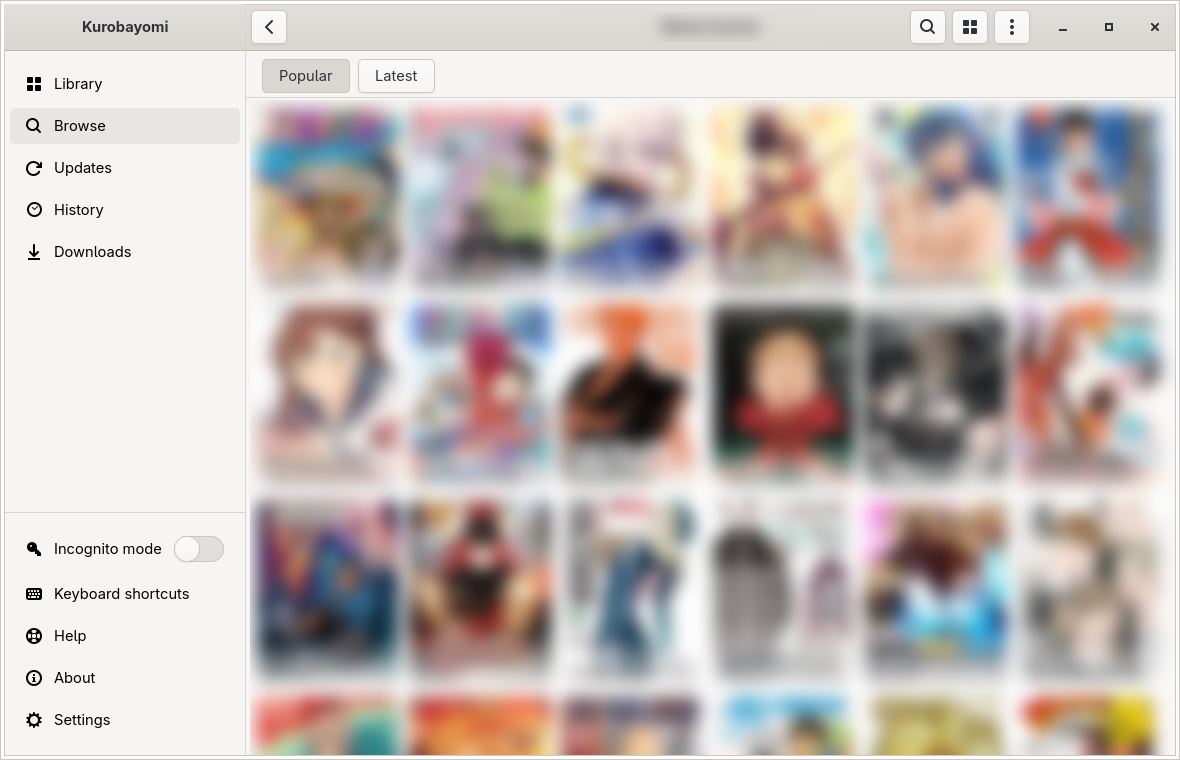
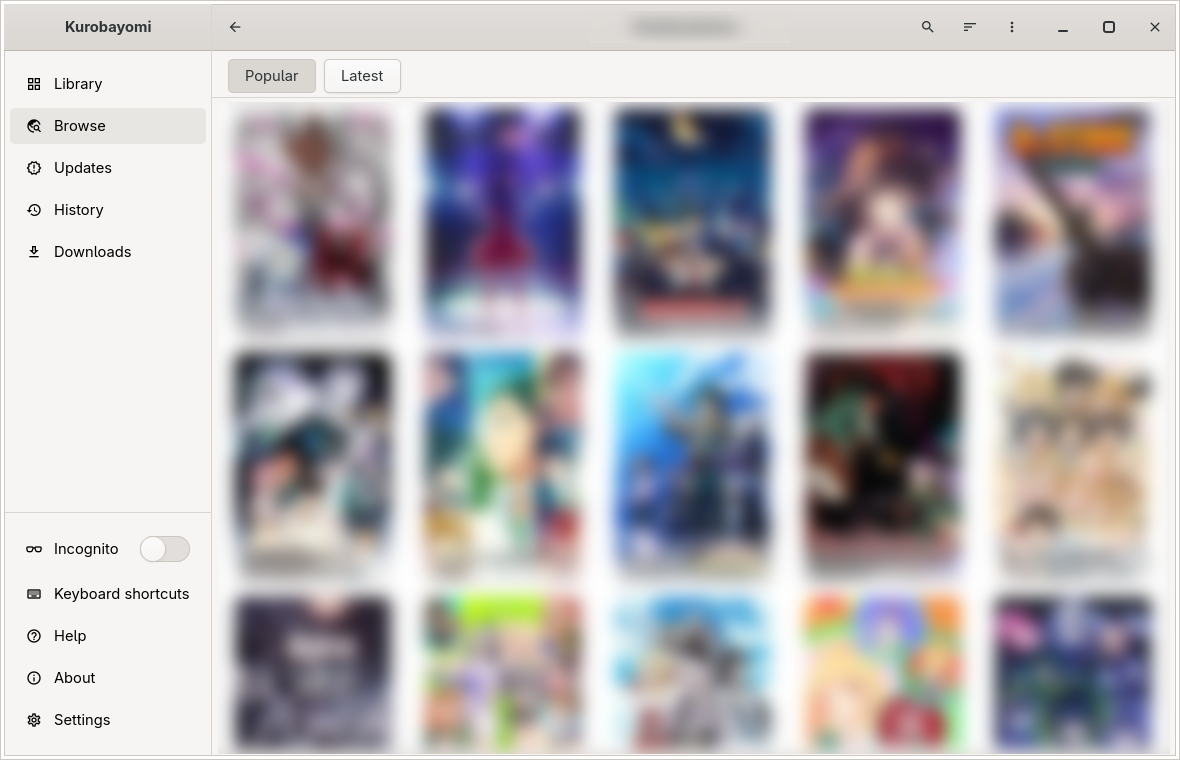
README and getting-started guide: the AppImage install (nightly link, the stable link once released) and its self-update, search from the button beside the app name, the sidebar's bottom rows and the ⋮ page menu, the ☰ menu of a small window, Incognito described exactly; every guide screenshot retak

diff --git a/README.md b/README.md
@@ -8,14 +8,15 @@
 
 Kurobayomi is a native desktop app, written in Rust with GTK4, that follows the model of
 [Aniyomi](https://github.com/aniyomiorg/aniyomi): a library, a reader, a video player, sources you add yourself, and
-progress tracking. It uses your GTK theme.
+progress tracking. It follows your GTK theme and draws its own icons, so it looks right on any desktop.
 
 The name is *kurobako* (黒箱, "black box") plus *-yomi* ("reading").
 
 ![The welcome screen](docs/images/getting-started/01-welcome.png)
 
 > **Status: early test version.** It runs, and the whole flow from adding a repository to watching or reading works, but
-> expect rough edges. There is no packaged release yet; see [Install](#install).
+> expect rough edges. A nightly AppImage is built from every change and updates itself; the first stable release is
+> coming. See [Install](#install).
 
 ## What it does
 
@@ -30,6 +31,9 @@ The name is *kurobako* (黒箱, "black box") plus *-yomi* ("reading").
 - **Library, Updates and History**, downloads for offline use, and AniList tracking (optional).
 - **Aniyomi and Tachiyomi backups** (`.tachibk`) restore into Kurobayomi, and `aniyomi://` / `tachiyomi://` repository
   links open it.
+- **Keeps itself up to date.** The AppImage downloads a newer version in the background and runs it after a restart;
+  About shows the progress.
+- **Fits any window size**, from a full screen down to a phone-sized 360 px: the sidebar turns into a bar at the bottom.
 
 <table>
   <tr>
@@ -42,7 +46,7 @@ The name is *kurobako* (黒箱, "black box") plus *-yomi* ("reading").
   </tr>
 </table>
 
-<sub>Cover art and site names are blurred in these screenshots.</sub>
+<sub>Site names, the repository link and the covers in lists are blurred in these screenshots.</sub>
 
 ## Getting started
 
@@ -50,7 +54,7 @@ The step-by-step guide, with screenshots, is in **[docs/GETTING-STARTED.md](docs
 
 1. Open the app and click **Add a source repository**.
 2. Paste the repository link.
-3. Search in **Browse**, open a title, click **Start**.
+3. Click the search button 🔍 next to **Kurobayomi**, type a title and press **Enter**, open a title, click **Start**.
 
 Downloads and backups go to `~/Kurobayomi` unless you pick another folder in Settings.
 
@@ -62,7 +66,28 @@ that lists sources; anyone can publish one. The format, the plug-in interface an
 
 ## Install
 
-A Flatpak is planned and comes first; an AppImage built by CI will follow. Until then, build it from source.
+### AppImage
+
+Download the AppImage, make it executable and run it. It carries its own libraries and needs glibc 2.39 or newer
+(Ubuntu 24.04, Fedora 40, Debian 13, Arch and newer).
+
+- **Nightly** (built from every change, may be unstable, keeps its data apart from the stable app):
+  [Kurobayomi-nightly-x86_64.AppImage](https://github.com/anas1412/kurobayomi/releases/download/nightly/Kurobayomi-nightly-x86_64.AppImage)
+- **Stable**: [Kurobayomi-x86_64.AppImage](https://github.com/anas1412/kurobayomi/releases/latest/download/Kurobayomi-x86_64.AppImage)
+  once the first release is out.
+
+```bash
+chmod +x Kurobayomi-nightly-x86_64.AppImage
+./Kurobayomi-nightly-x86_64.AppImage
+```
+
+The AppImage updates itself: at start it looks for a newer version, downloads it in the background and runs it after a
+restart. **About** shows the progress, and **Check for updates at startup** there turns it off. AppImage managers
+(Gear Lever, AppImageLauncher) work too.
+
+A Flatpak is planned.
+
+### From source
 
 You need a recent stable Rust, GTK 4.14 or newer, and libmpv (on Arch: `pacman -S gtk4 mpv`; on Fedora:
 `dnf install gtk4-devel mpv-libs-devel`; on Ubuntu 24.04: `apt install libgtk-4-dev libmpv-dev`).

diff --git a/docs/GETTING-STARTED.md b/docs/GETTING-STARTED.md
@@ -3,7 +3,7 @@
 Kurobayomi lets you watch anime and read manga on your computer. It comes with no sources of its own: you add a
 **repository**, a link that someone you trust gives you, and its sources show up in the app.
 
-This guide takes about five minutes.
+This guide takes about five minutes. If you do not have the app yet, see [Install](../README.md#install).
 
 ---
 
@@ -47,8 +47,9 @@ Click a source to see what it has. The **Popular** list opens first.
 
 ## 4. Search
 
-To find something, type in the search box at the top of **Browse** and press **Enter**. Kurobayomi looks through all
-your sources at once and shows the results per source.
+To find something, click the search button 🔍 next to **Kurobayomi** at the top of the sidebar (in a small window it is
+at the left of the top bar), type and press **Enter**. Kurobayomi looks through all your sources of the kind you are
+viewing (Anime or Manga) and shows the results per source.
 
 ![Search results from all sources](images/getting-started/08-search.png)
 
@@ -80,12 +81,24 @@ The sidebar also has:
 
 - **Updates**: new episodes and chapters of the titles in your library.
 - **History**: what you watched and read recently.
-- **Downloads**: shows up while something downloads, with how many are left.
-- **Settings**: the gear at the bottom of the sidebar.
+- **Downloads**: what is downloading and what is waiting; while something downloads, the sidebar shows how many are left.
 
-Incognito mode, keyboard shortcuts, help and About are in the menu on the **Kurobayomi** title.
+At the bottom of the sidebar are **Incognito** (while it is on, nothing you watch or read goes into History), **Keyboard
+shortcuts**, **Help**, **About** and **Settings**.
+
+Next to the search button, the **⋮** menu holds what the page you are on can do, for example adding a folder of your own
+files to the Library. The **Anime** and **Manga** switch is shared by every page and remembered.
+
+In a small window the sidebar becomes a bar at the bottom; Incognito, the shortcuts, Help, About and Settings are in its
+**☰** menu.
 
 ---
+
+## Updates to the app
+
+The AppImage keeps itself up to date. When it starts, it looks for a newer version and downloads it in the background;
+a message tells you when it is ready, with a **Restart** button. **About** (at the bottom of the sidebar) shows the
+download and has a button to check now. To stop the automatic check, turn off **Check for updates at startup** there.
 
 ## Where your files are saved
 
